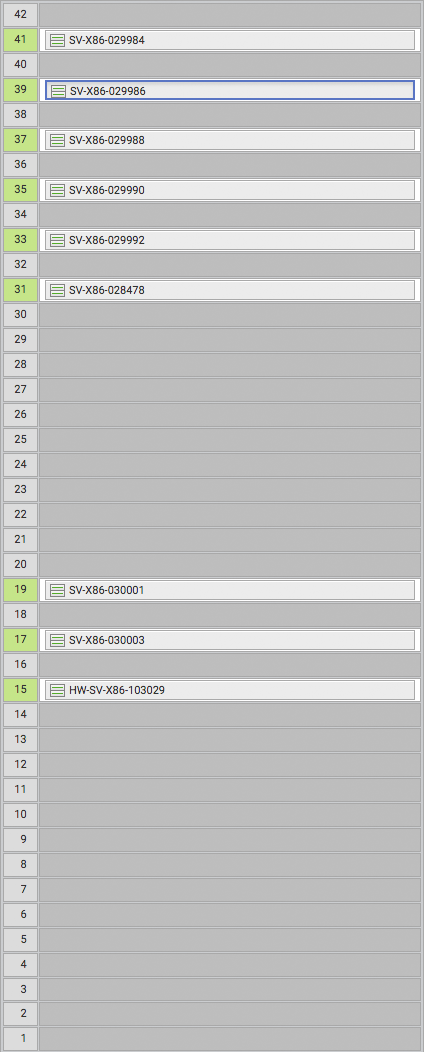
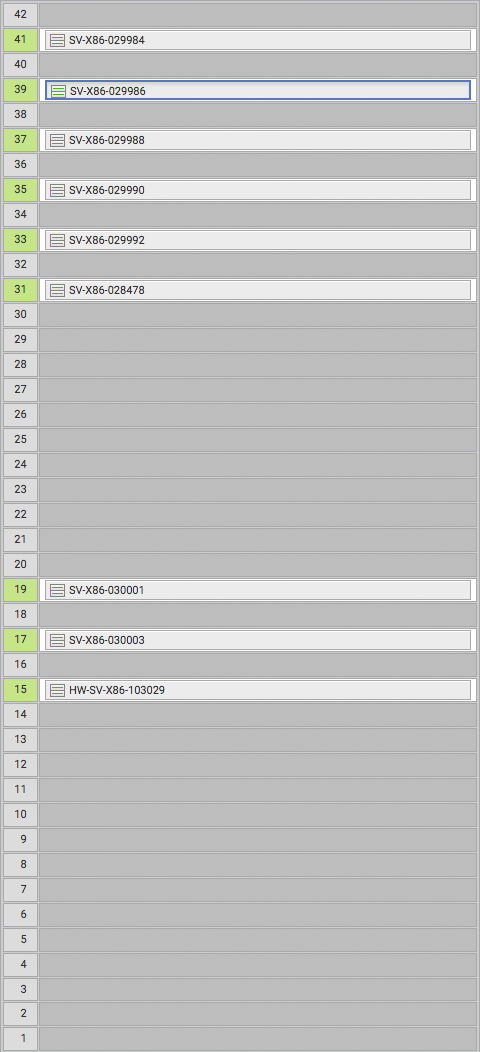
실장도 이미지

Changed region(s): [[0.0307, 0.0, 0.3986, 1.0], [0.9505, 0.0608, 0.9811, 0.0913]]

diff --git a/front/src/asset/css/common/common.css b/front/src/asset/css/common/common.css
@@ -10,20 +10,20 @@
 
 /* Font Nanum Gothic */
 @font-face {
-	font-family:"Nanum Gothic";
-	src:url('../../font/NanumGothic.eot');
-	src:local('※'),url('../../font/NanumGothic.ttf') format('truetype');
-	src:local('※'),url('../../font/NanumGothic.woff') format('woff');
-	font-weight: 400;
-	font-style: normal;
+  font-family:"Nanum Gothic";
+  src:url('../../font/NanumGothic.eot');
+  src:local('※'),url('../../font/NanumGothic.ttf') format('truetype');
+  src:local('※'),url('../../font/NanumGothic.woff') format('woff');
+  font-weight: 400;
+  font-style: normal;
 }
 @font-face {
-	font-family:"Nanum Gothic";
-	src:url('../../font/NanumGothicBold.eot');
-	src:local('※'),url('../../font/NanumGothicBold.ttf') format('truetype');
-	src:local('※'),url('../../font/NanumGothicBold.woff') format('woff');
-	font-weight: 700;
-	font-style: normal;
+  font-family:"Nanum Gothic";
+  src:url('../../font/NanumGothicBold.eot');
+  src:local('※'),url('../../font/NanumGothicBold.ttf') format('truetype');
+  src:local('※'),url('../../font/NanumGothicBold.woff') format('woff');
+  font-weight: 700;
+  font-style: normal;
 }
 
 /* Layout */
@@ -97,12 +97,12 @@ aside .bottom-cont {position:absolute; bottom:80px; left:0; right:0;}
 .gnb-menu > li.active > a {color:#899cff;}
 .gnb-menu > li.active > a:before  {content:""; position:absolute; top:0; left:0; bottom:0; display:inline-block; border-left:3px solid #687ff4;  -webkit-animation:gnbactiveline .5s; animation: gnbactiveline .5s;}
 @-webkit-keyframes gnbactiveline {
-	from {bottom: 40px;}
-	to {bottom: 0;}
+  from {bottom: 40px;}
+  to {bottom: 0;}
 }
 @keyframes gnbactiveline {
-	from {bottom: 40px;}
-	to {bottom: 0;}
+  from {bottom: 40px;}
+  to {bottom: 0;}
 }
 .gnb-menu > li.active i.arrow {-webkit-transform:rotate(90deg); transform:rotate(90deg);}
 
@@ -222,16 +222,16 @@ button[class*="-tool"].on {border-color:#819736; background:#9ebb40; color:#fff}
 
 /* media */
 @media (max-width:767px){
-	aside {width:0;}
-	aside >* {display:none;}
-	.content {padding-left:0;}
-	.fixed-top-cont {padding-left:0;}
-	.slim-type aside >* {display:block;}
+  aside {width:0;}
+  aside >* {display:none;}
+  .content {padding-left:0;}
+  .fixed-top-cont {padding-left:0;}
+  .slim-type aside >* {display:block;}
 
 }
 @media (min-width:768px) and (max-width:1024px){
-	.slim-type aside {width:51px;}
-	.slim-type .content {padding-left:51px;}
+  .slim-type aside {width:51px;}
+  .slim-type .content {padding-left:51px;}
 
 }
 
@@ -405,9 +405,4 @@ fieldset {border:0 none;}
 .treeitem .expanded.open {height:20px; background:url(../../images/common/node-opened.png) no-repeat 50% 50%;}
 .treeitem .expanded.closed {height:20px; background:url(../../images/common/node-closed.png) no-repeat 50% 50%;}
 
-.box-center {display:flex; justify-content:center; align-items:center; align-content:center;}
-.box-center img {overflow:hidden;}
-.rack-case {width:476px; height:100%;}
-.rack-case .top {height:30px; background:url(../../images/common/rack_top.png) no-repeat 0 0;}
-.rack-case .middle {height:calc(100% - 83px); padding:6px; overflow:hidden; background:url(../../images/common/rack_back.png) repeat-y 0 0;}
-.rack-case .bottom {height:53px; background:url(../../images/common/rack_bottom.png) no-repeat 0 0;}
+.rack-case {overflow:hidden; width:490px; height:100%; text-align:center;}

diff --git a/front/src/common/component/slider/slider-component.vue b/front/src/common/component/slider/slider-component.vue
@@ -23,9 +23,10 @@
           <div class="panel-body">
             <!--<img  v-if="notDetailShow" src="../../../asset/images/common/rack.png" v-on:click="showDetailInfo()">-->
             <div class="rack-case"  v-if="notDetailShow" src="../../../asset/images/common/rack.png" v-on:click="showDetailInfo()">
-              <div class="top"></div>
+              <!--<div class="top"></div>
               <div class="middle"><img src="../../../asset/images/common/rack.png" alt=""></div>
-              <div class="bottom"></div>
+              <div class="bottom"></div>-->
+              <img src="../../../asset/images/common/rack.png" alt="" style="width:480px;height:1052px">
             </div>
             <div class="container fluid fill-height" v-show="!notDetailShow" >
               <div class="layout row gap-06">
@@ -33,9 +34,10 @@
                   <!--<div class="">-->
                     <!--<img src="../../../asset/images/common/rack.png" alt="" style="width:478px;height:820px">-->
                     <div class="rack-case">
-                      <div class="top"></div>
+                      <!--<div class="top"></div>
                       <div class="middle"><img src="../../../asset/images/common/rack.png" alt=""></div>
-                      <div class="bottom"></div>
+                      <div class="bottom"></div>-->
+                      <img src="../../../asset/images/common/rack.png" alt="" style="width:480px;height:1052px">
                     </div>
                   <!--</div>-->
                 </div>
